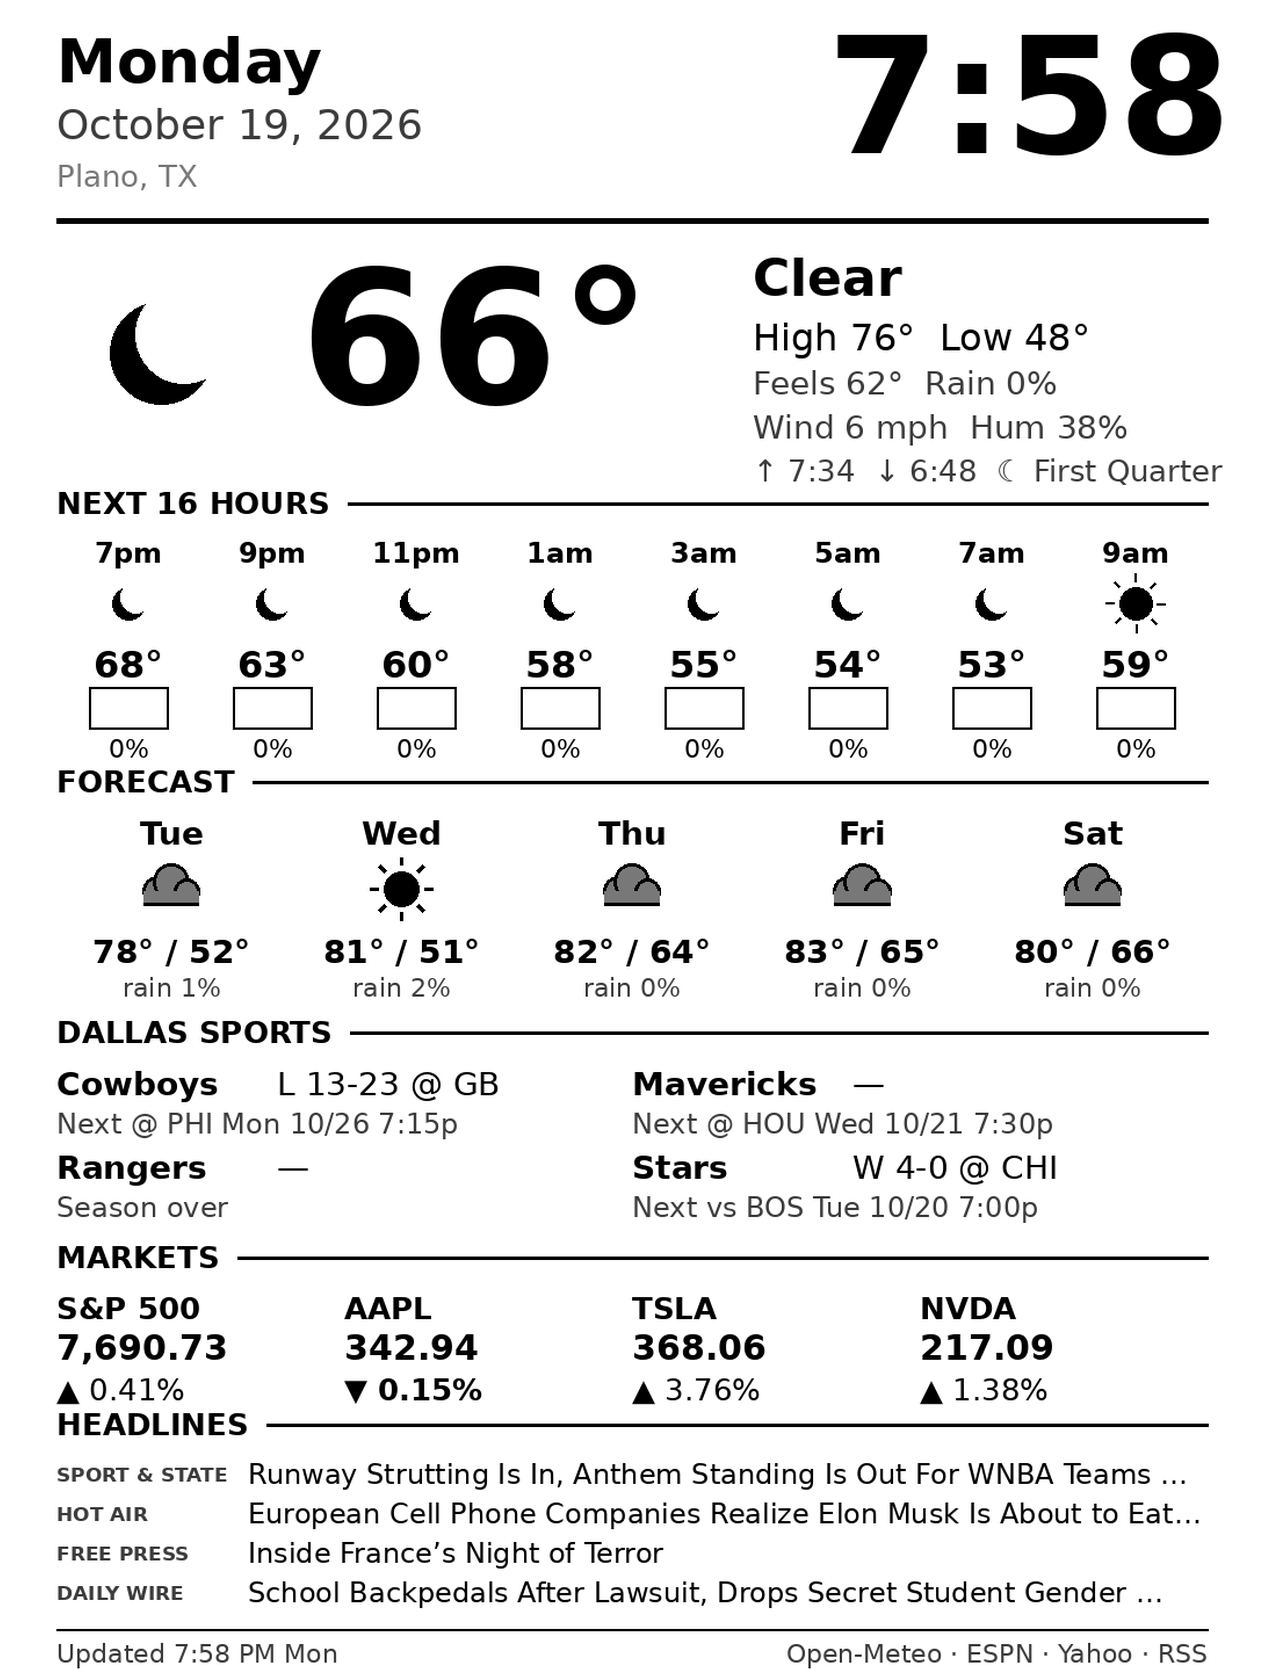
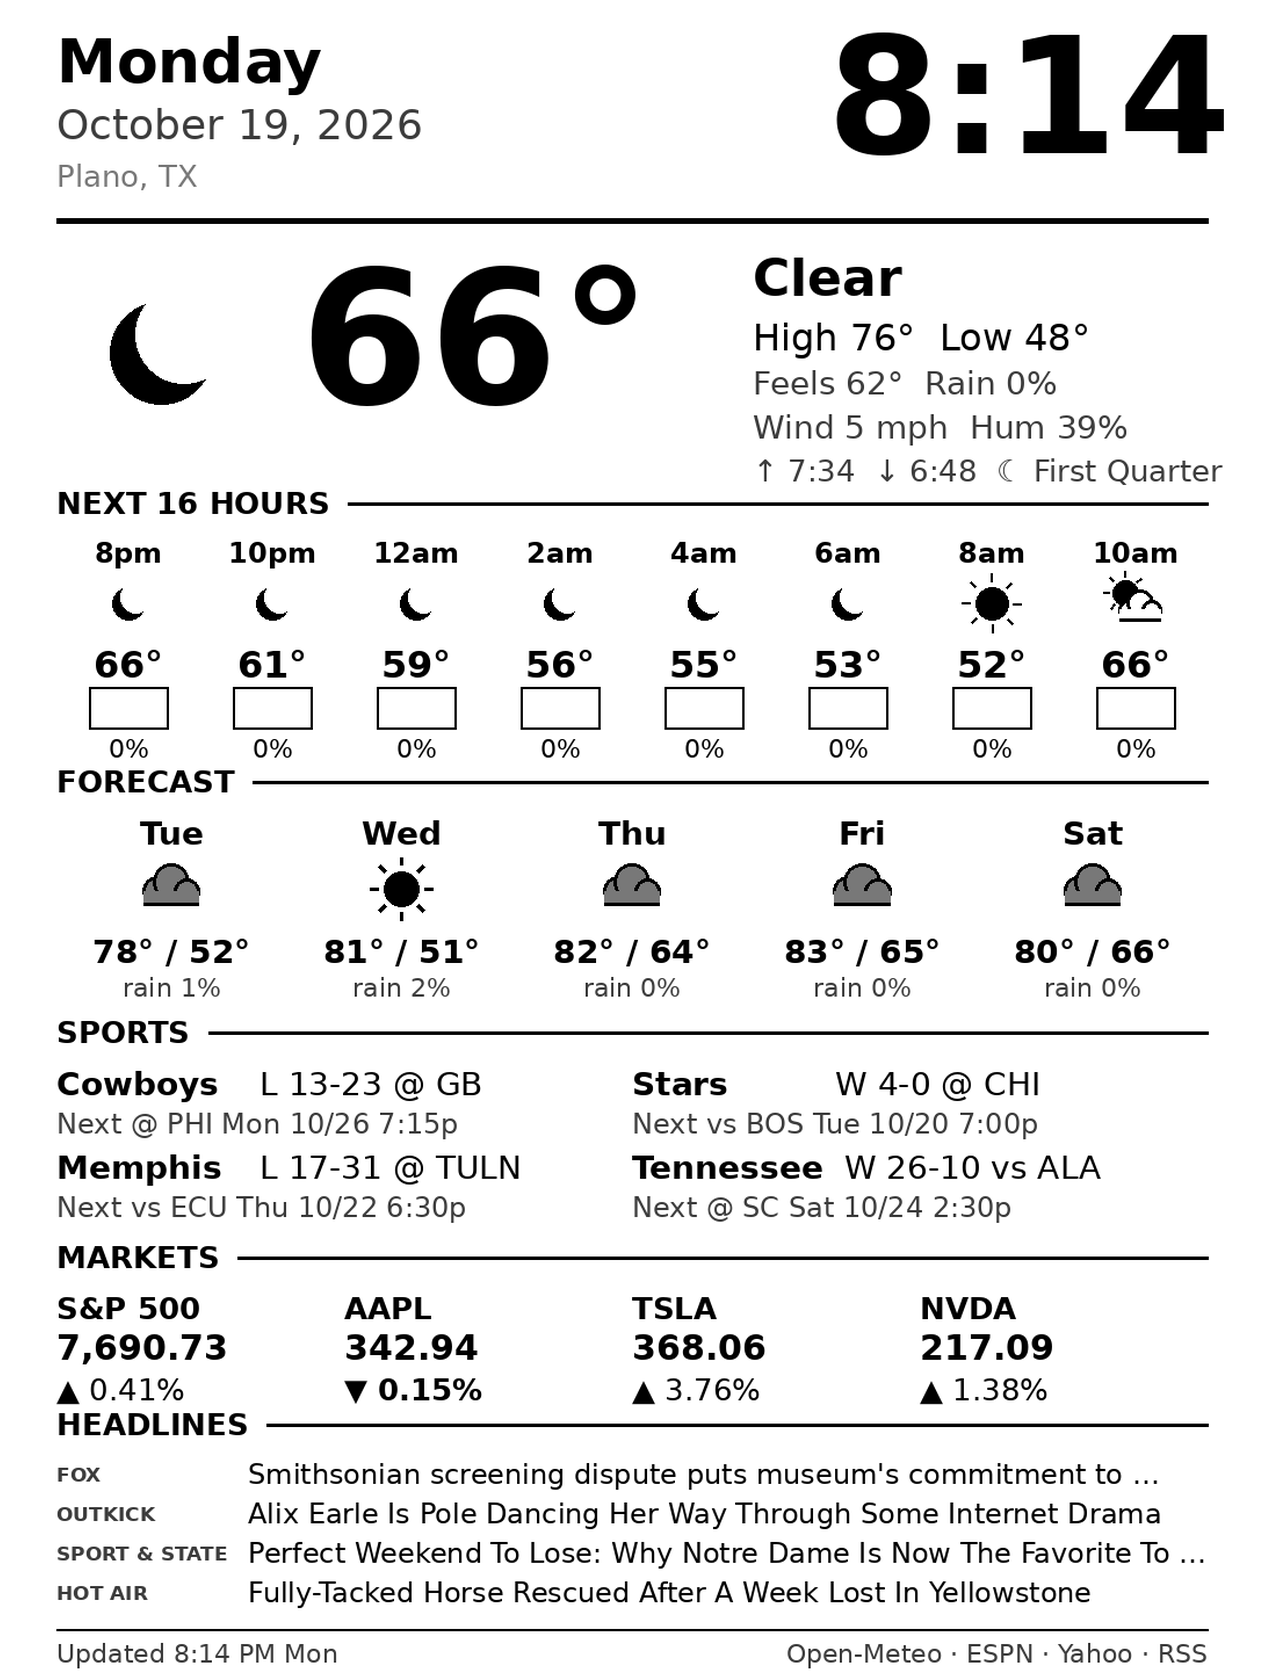
Sports: Cowboys, Stars, Memphis, Tennessee (match by ESPN team id)

diff --git a/render.py b/render.py
@@ -12,8 +12,8 @@ LAT, LON, PLACE = 33.0198, -96.6989, "Plano, TX"
 CLOCK_BOX = (560, 14, 1052, 180)
 SIZES = [(600, 800), (758, 1024), (1072, 1448), (1236, 1648), (1264, 1680), (1860, 2480)]
 DEFAULT_SIZE = (600, 800)   # keep in sync with OVERLAY_* in Kindle config.sh
-TEAMS = [("football/nfl", "dal", "Cowboys"), ("basketball/nba", "dal", "Mavericks"),
-         ("baseball/mlb", "tex", "Rangers"), ("hockey/nhl", "dal", "Stars")]
+TEAMS = [("football/nfl", "dal", "Cowboys"), ("hockey/nhl", "dal", "Stars"),
+         ("football/college-football", "235", "Memphis"), ("football/college-football", "2633", "Tennessee")]
 TICKERS = [("^GSPC", "S&P 500"), ("AAPL", "AAPL"), ("TSLA", "TSLA"), ("NVDA", "NVDA")]
 FEEDS = [("Free Press", "https://www.thefp.com/feed"),
          ("Daily Wire", "https://www.dailywire.com/feeds/rss.xml"),
@@ -49,6 +49,7 @@ def weather():
 
 def team(path, abbr, name):
     d = getj(f"https://site.api.espn.com/apis/site/v2/sports/{path}/teams/{abbr}/schedule")
+    myid = str(d["team"]["id"])     # match competitors by team id (works for pro + college)
     last = nxt = None
     for ev in d.get("events", []):
         st = ev["competitions"][0]["status"]["type"]["state"]
@@ -57,7 +58,7 @@ def team(path, abbr, name):
     def fmt_last(ev):
         c = ev["competitions"][0]; me = op = None
         for x in c["competitors"]:
-            if x["team"]["abbreviation"].lower() == abbr: me = x
+            if str(x["team"]["id"]) == myid: me = x
             else: op = x
         s = lambda x: (x.get("score") or {}).get("displayValue", "?")
         wl = "W" if me.get("winner") else ("L" if op.get("winner") else "T")
@@ -65,8 +66,8 @@ def team(path, abbr, name):
         return f"{wl} {s(me)}-{s(op)} {at} {op['team']['abbreviation']}"
     def fmt_next(ev):
         c = ev["competitions"][0]
-        op = [x for x in c["competitors"] if x["team"]["abbreviation"].lower() != abbr][0]
-        me = [x for x in c["competitors"] if x["team"]["abbreviation"].lower() == abbr][0]
+        op = [x for x in c["competitors"] if str(x["team"]["id"]) != myid][0]
+        me = [x for x in c["competitors"] if str(x["team"]["id"]) == myid][0]
         at = "vs" if me.get("homeAway") == "home" else "@"
         t = dt.datetime.fromisoformat(ev["date"].replace("Z", "+00:00")).astimezone(TZ)
         live = c["status"]["type"]["state"] == "in"
@@ -236,17 +237,18 @@ def render(out):
         d.text((40, y + 60), "Weather unavailable", font=font(44, True)); y += 640
 
     # Sports 2x2
-    y = section(d, y, "Dallas sports")
+    y = section(d, y, "Sports")
     colw = (W - 80) / 2
     for k, s in enumerate(sports):
         x = 40 + colw*(k % 2); yy = y + 72*(k // 2)
         name = TEAMS[k][2]
         d.text((x, yy), name, font=font(28, True), fill=BLACK)
         if s:
-            d.text((x + 190, yy), fit(d, s[1], font(28), colw - 200), font=font(28), fill=BLACK)
+            nx = max(175, tw(d, name, font(28, True)) + 18)
+            d.text((x + nx, yy), fit(d, s[1], font(28), colw - nx - 10), font=font(28), fill=BLACK)
             d.text((x, yy + 36), fit(d, s[2], font(24), colw - 20), font=font(24), fill=DARK)
         else:
-            d.text((x + 190, yy), "unavailable", font=font(26), fill=MID)
+            d.text((x + 175, yy), "unavailable", font=font(26), fill=MID)
     y += 150
 
     # Markets
